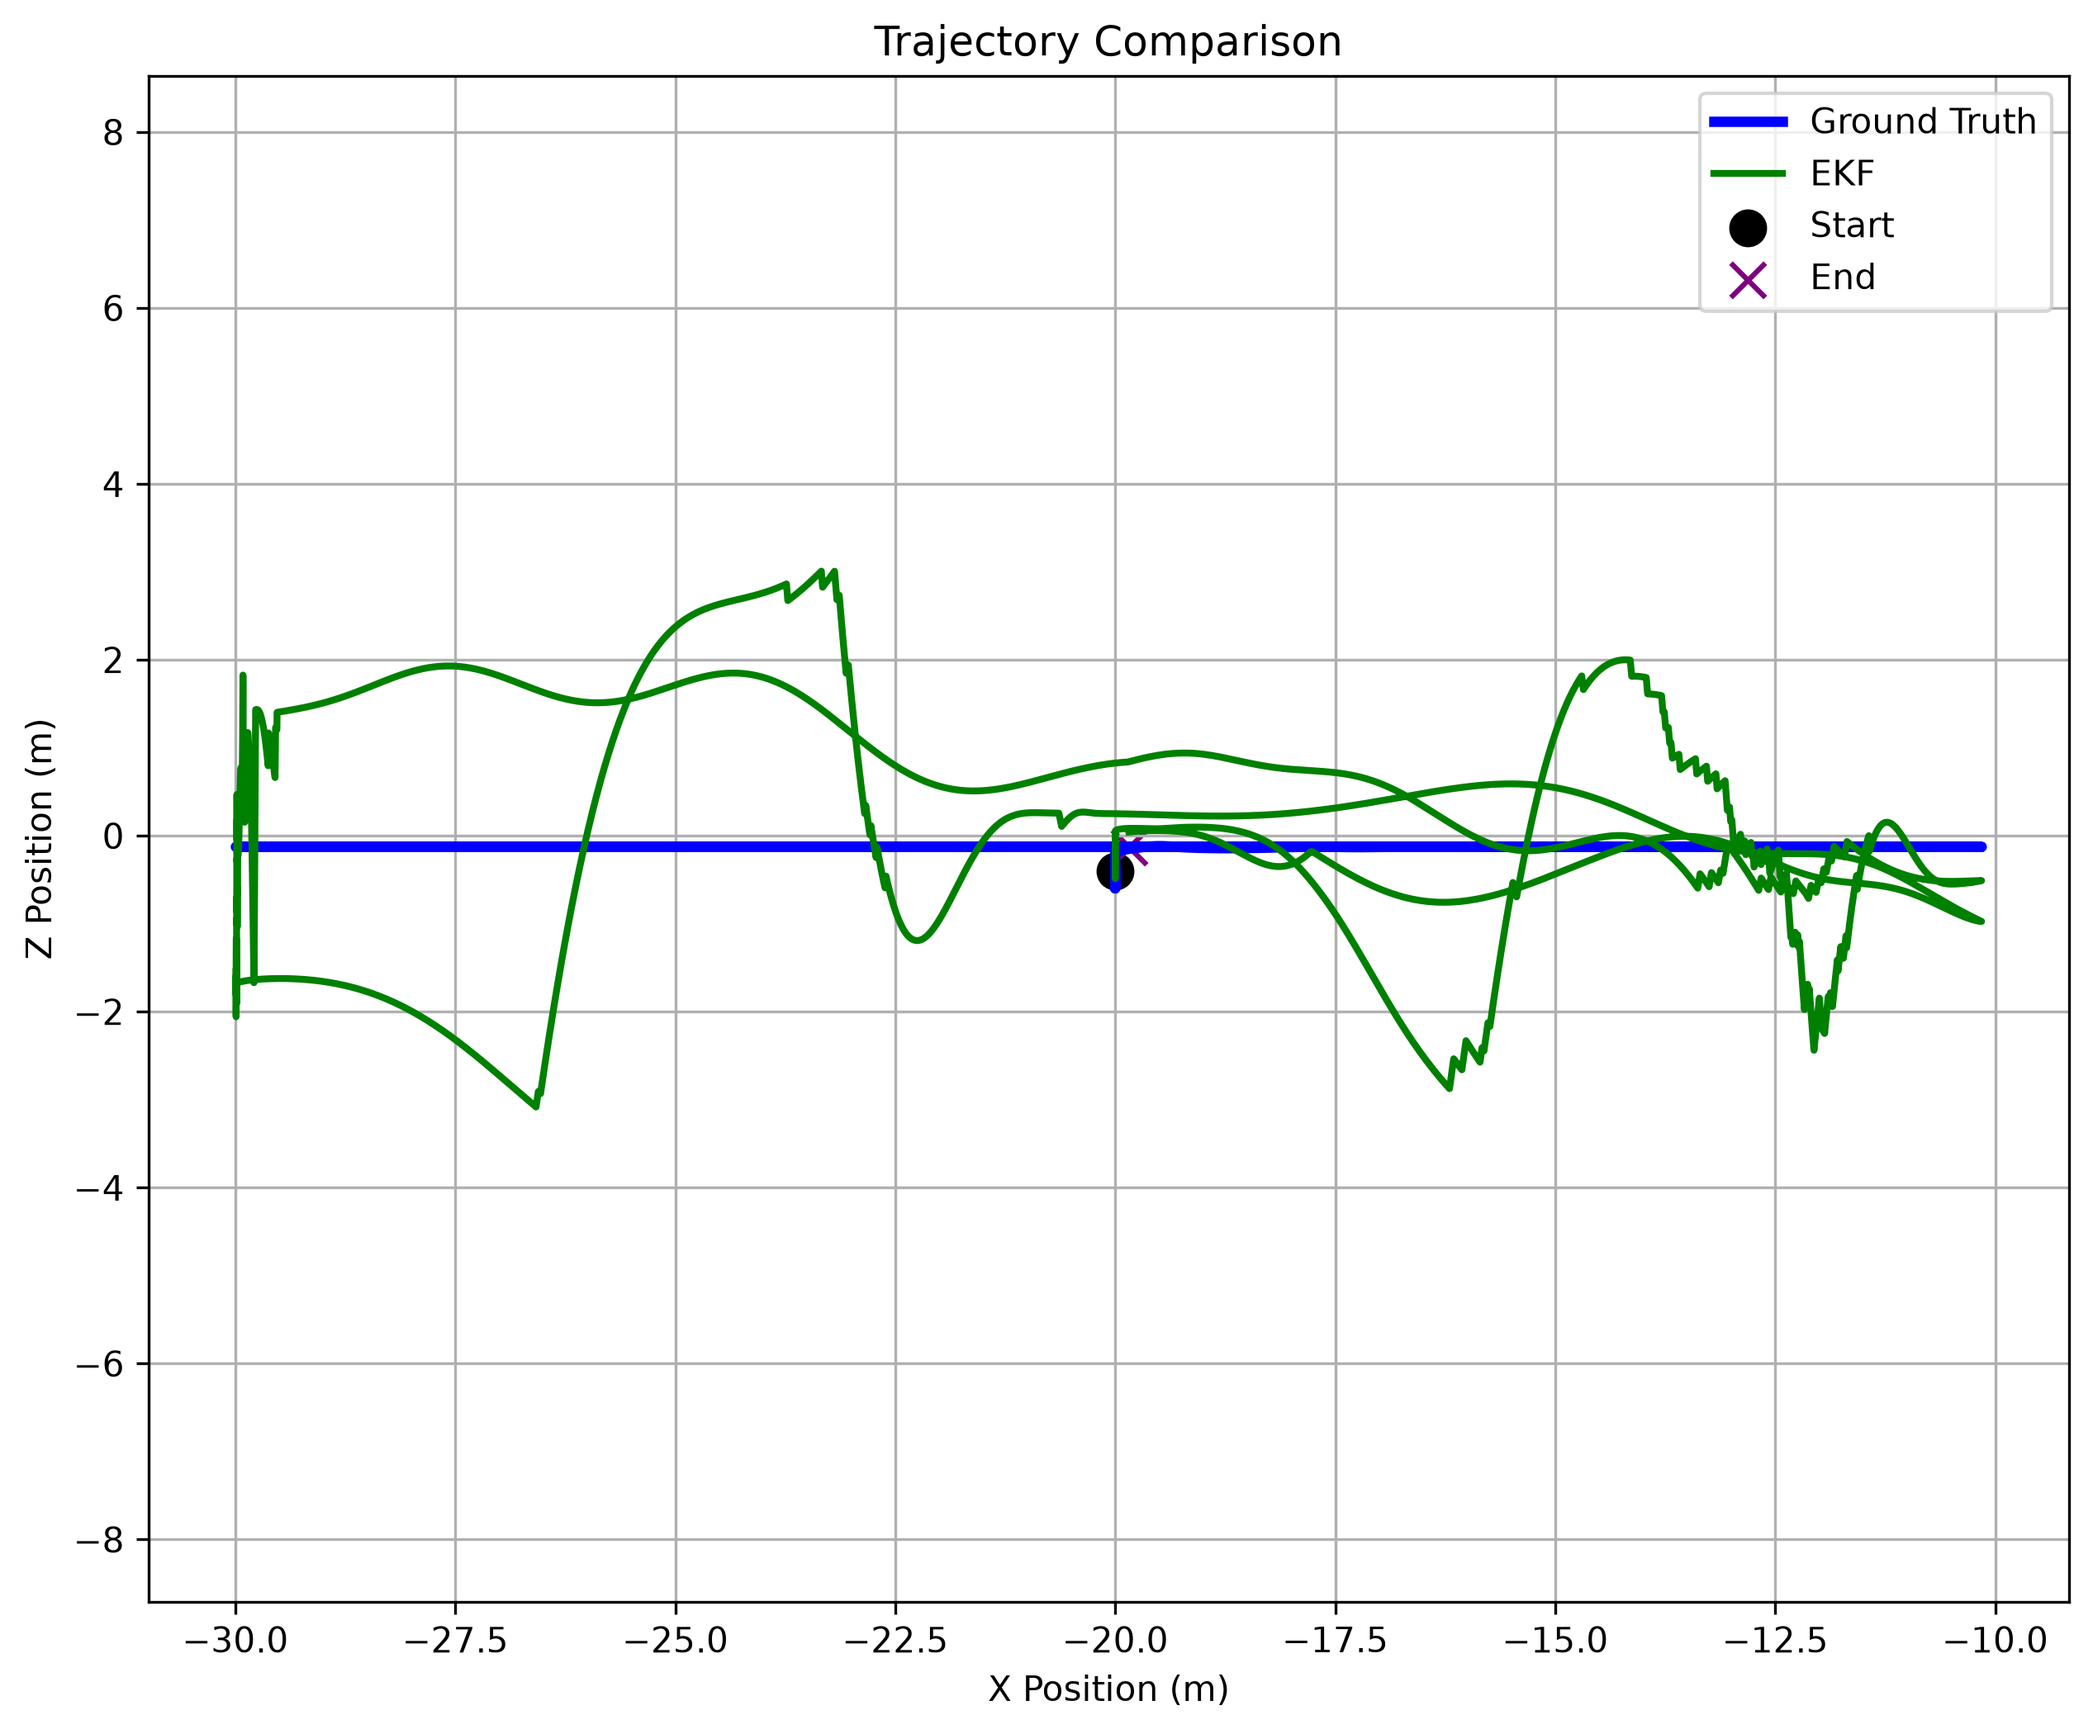
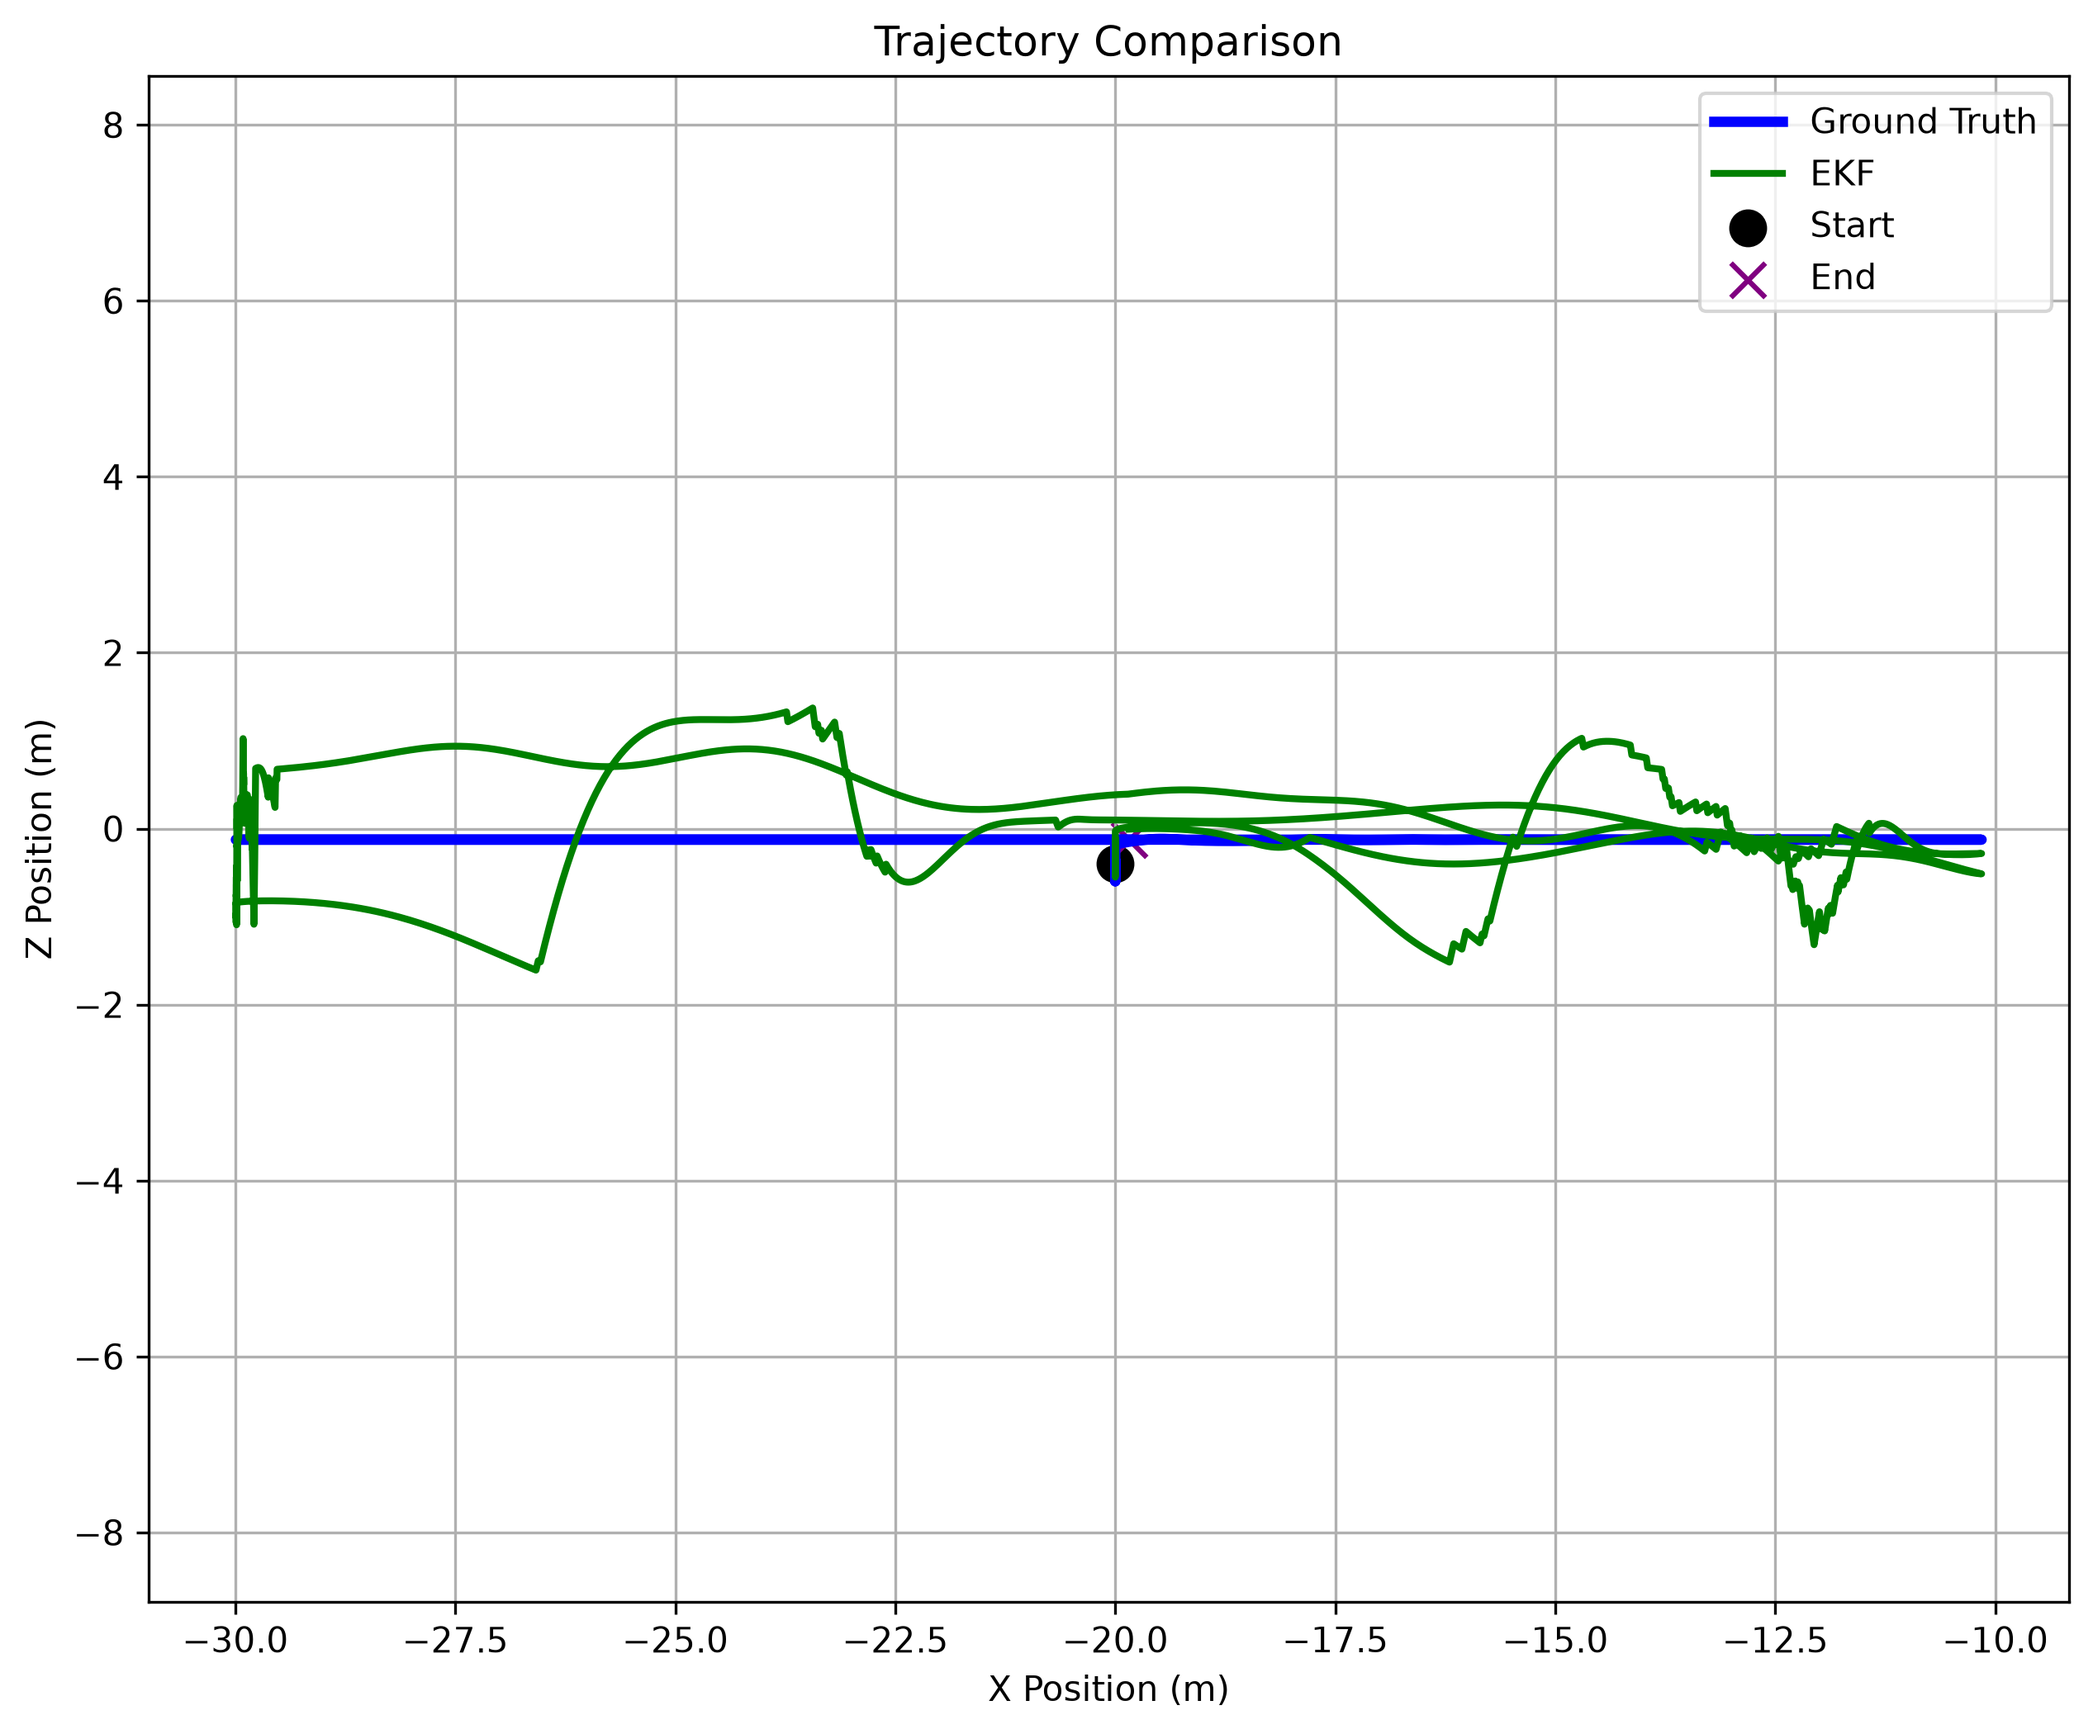
better accuracy

diff --git a/HoloOcean-release/way.py b/HoloOcean-release/way.py
@@ -31,6 +31,12 @@ scenario = {
                     "sensor_type": "PoseSensor"
                 },
                 {
+                    "sensor_name": "depthsensor",
+                    "sensor_type": "DepthSensor",
+                    "socket": "IMUSocket",
+                    "Hz": 30
+                },
+                {
                     "sensor_name": "imu_1",
                     "sensor_type": "IMUSensor",
                     "socket": "IMUSocket",
@@ -66,6 +72,7 @@ scenario = {
 class EKF:
 
     def __init__(self):
+        print("Initializing EKF...")
 
         self.x = np.zeros((6,1))
 
@@ -76,8 +83,16 @@ class EKF:
             0.5,
             0.5
         ])
+        self.filtered_x = []
+        self.filtered_P = []
+
+        self.predicted_x = []
+        self.predicted_P = []
+
+        self.F_history = []
 
     def predict(self, acc, dt):
+        print(f"Predicting with dt={dt:.3f} seconds")
 
         F = np.array([
             [1,0,0,dt,0,0],
@@ -107,7 +122,12 @@ class EKF:
 
         self.P = F @ self.P @ F.T + Q
 
+        self.filtered_x.append(self.x.copy())
+        self.filtered_P.append(self.P.copy())
+        self.F_history.append(F.copy())
+
     def update(self, position_meas):
+        print("Updating with position measurement")
 
         H = np.array([
             [1,0,0,0,0,0],
@@ -128,8 +148,36 @@ class EKF:
         I = np.eye(6)
 
         self.P = (I - K @ H) @ self.P
+        self.filtered_x.append(self.x.copy())
+        self.filtered_P.append(self.P.copy())
 
         return self.x
+
+    def rts_smoother(self):
+        print("Running RTS smoother...")
+        n_filt = len(self.filtered_x)
+        n_pred = len(self.predicted_x)
+        print(f"Number of filtered states: {n_filt}")
+        print(f"Number of predicted states: {n_pred}")
+        #N = len(self.filtered_x)
+        N = min(n_filt, n_pred)
+        smoothed_x = [None] * N
+        smoothed_P = [None] * N
+        smoothed_x[-1] = self.filtered_x[-1]
+        smoothed_P[-1] = self.filtered_P[-1]
+        for k in range(N-2, -1, -1):
+            Pk = self.filtered_P[k]
+            Pk1_pred = self.predicted_P[k+1]
+            Fk = self.F_history[k]
+            Ck = Pk @ Fk.T @ np.linalg.inv(Pk1_pred)
+            smoothed_x[k] = (self.filtered_x[k] + Ck @ (smoothed_x[k+1]-self.predicted_x[k+1]))
+            smoothed_P[k] = (self.filtered_P[k]+Ck @ (smoothed_P[k+1]-self.predicted_P[k+1]) @ Ck.T)
+        return smoothed_x, smoothed_P
+
+# ====================================================
+# RTS smoother
+# ====================================================
+
 
 # ====================================================
 # ENVIRONMENT
@@ -273,6 +321,9 @@ with open("wp_c.csv", "w", newline="") as f:
         # ============================================
 
         pose = state["pose"]
+        depth_sensor = state["depthsensor"]
+        deep = depth_sensor[0]
+
 
         position = np.array([
             pose[0][3],
@@ -336,6 +387,8 @@ with open("wp_c.csv", "w", newline="") as f:
         depth = depth * y_std + y_mean
         print(depth[0], sonar_depth)
         dr_p[2] = (sonar_depth + depth[0])
+        dr1_p = dr_p.copy()
+        dr1_p[2] = deep
 
         # ============================================
         # EKF
@@ -344,6 +397,7 @@ with open("wp_c.csv", "w", newline="") as f:
         ekf.predict(imu_read, dt)
 
         ekf_state = ekf.update(dr_p)
+        ekf_state = ekf.update(dr1_p)
         #ekf_state = ekf.x
 
         ekf_x = ekf_state[0,0]
@@ -448,7 +502,35 @@ with open("wp_c.csv", "w", newline="") as f:
 
 print("Finished. Data saved to wp_c.csv")
 
+'''smoothed_x, smoothed_P = ekf.rts_smoother()
 
+sx = []
+sy = []
+sz = []
+
+for s in smoothed_x:
+    sx.append(s[0,0])
+    sy.append(s[1,0])
+    sz.append(s[2,0])
+
+plt.plot(
+    sx,
+    sy,
+    color="magenta",
+    linewidth=3,
+    label="RTS Smoothed"
+)
+
+smooth_df = pd.DataFrame({
+    "rts_x": sx,
+    "rts_y": sy,
+    "rts_z": sz
+})
+
+smooth_df.to_csv(
+    "rts_smoothed.csv",
+    index=False
+)'''
 # Load CSV
 df = pd.read_csv("wp_c.csv")
 
